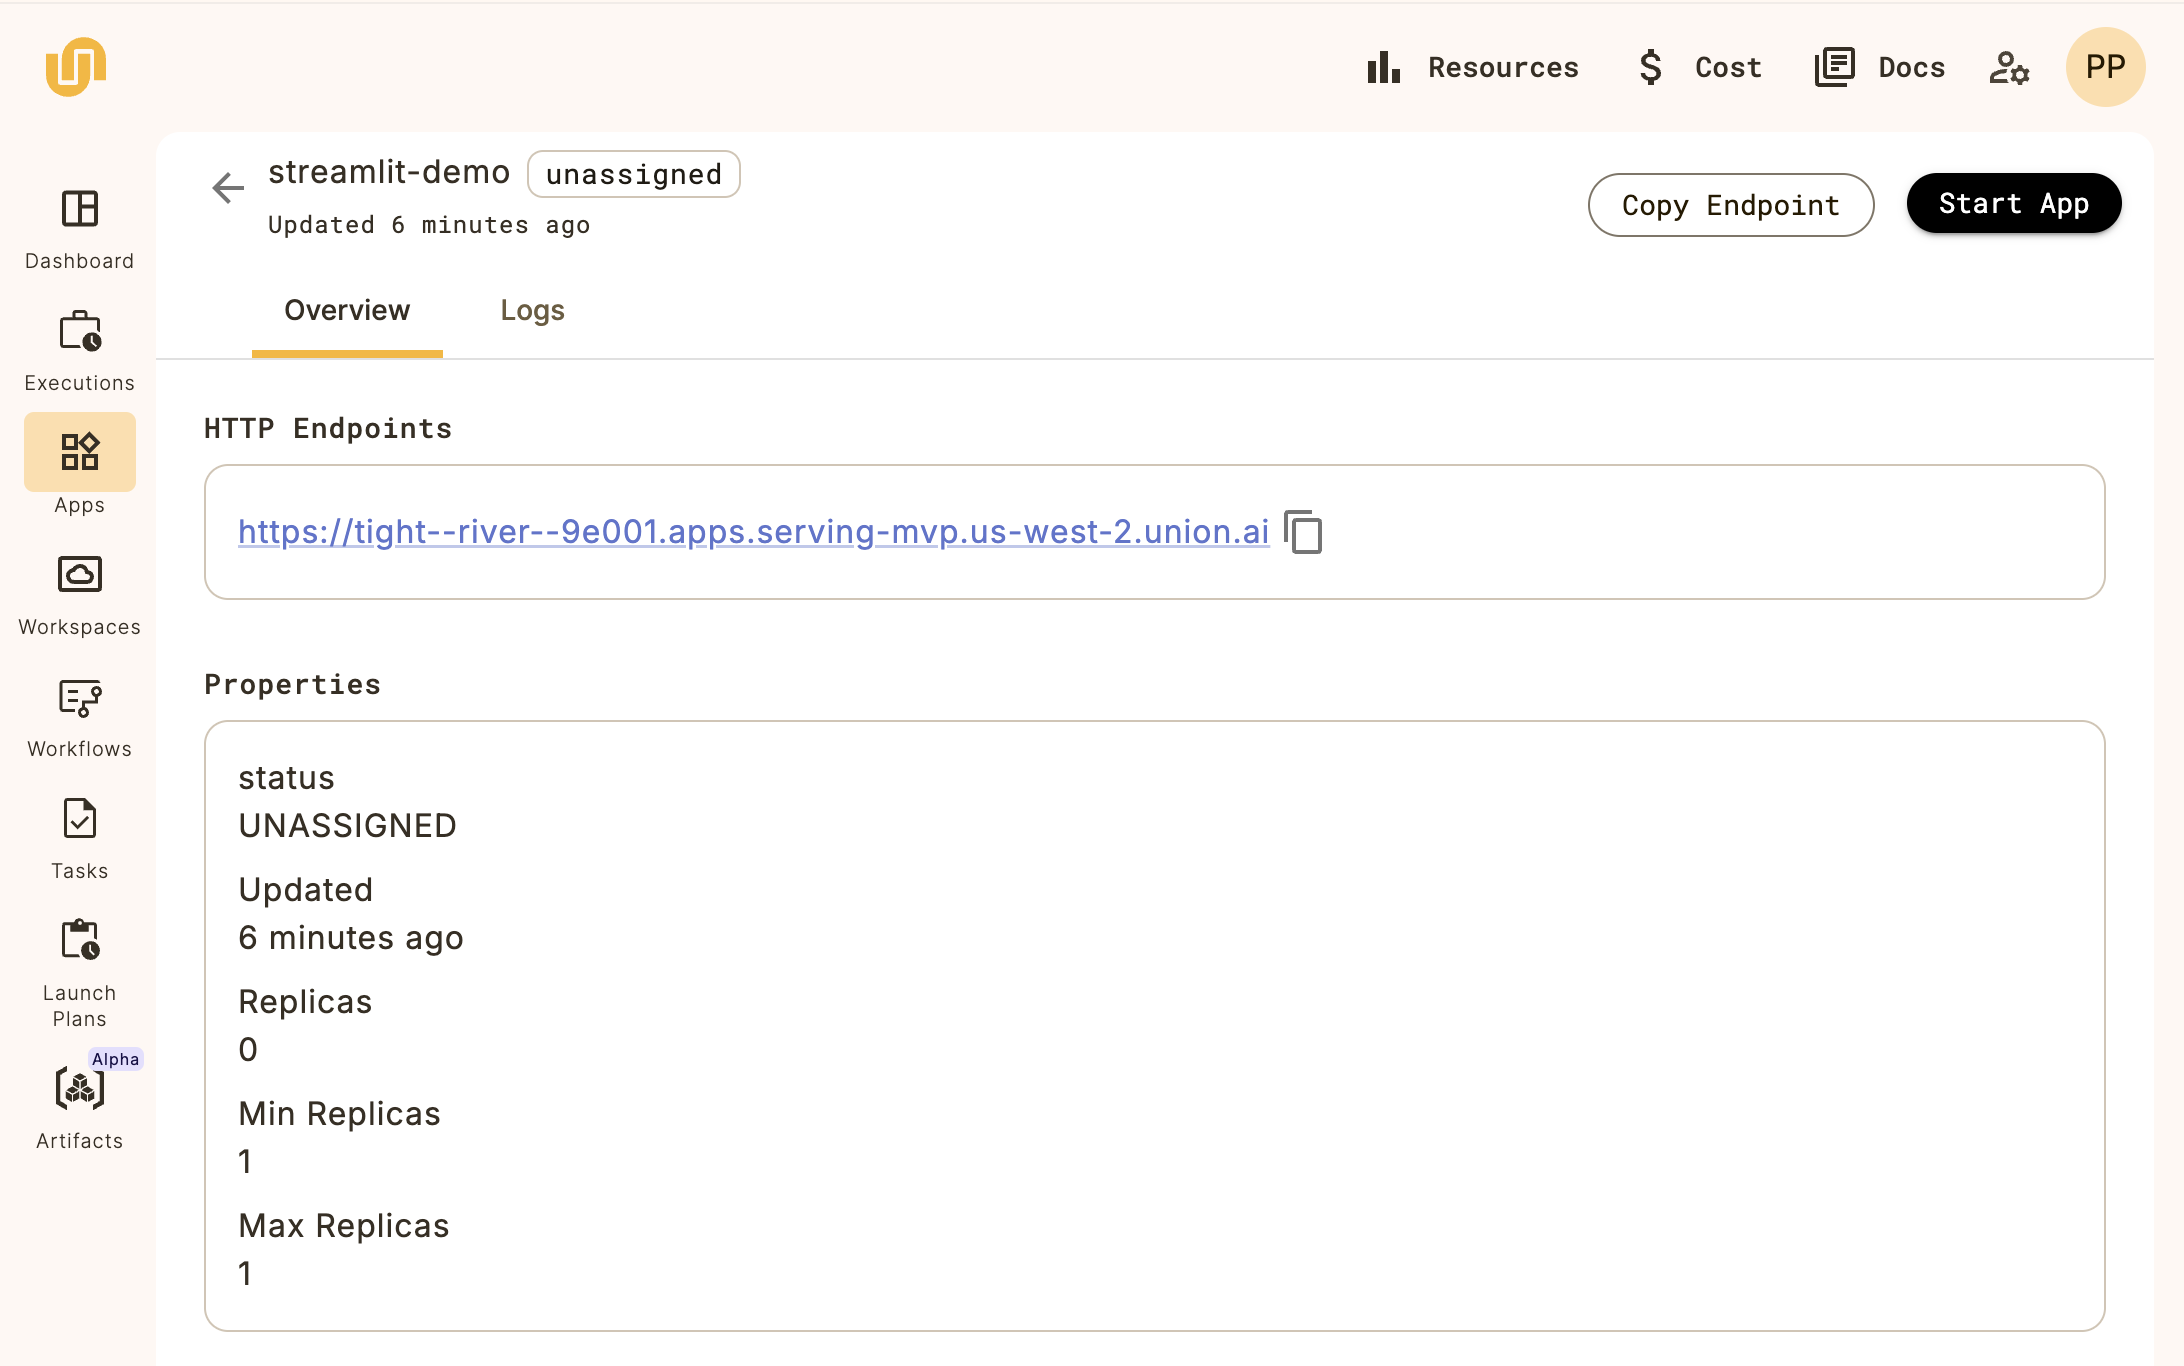
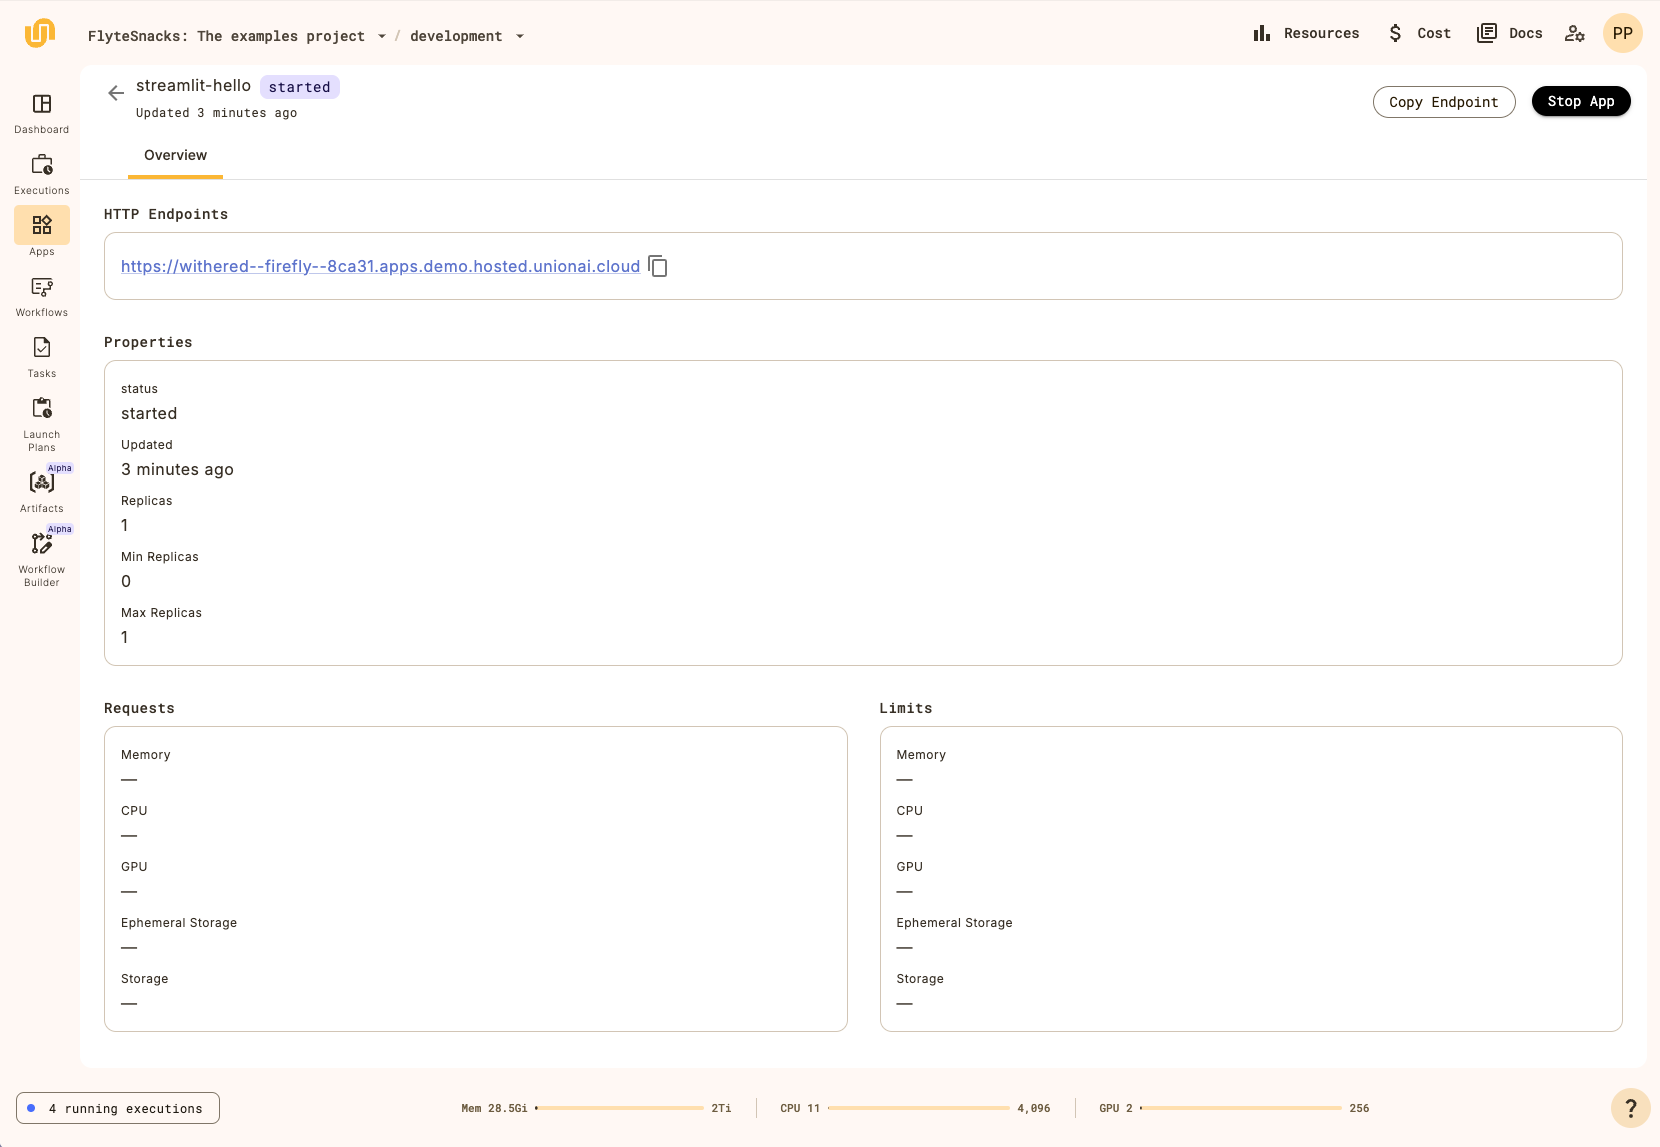
fixes as per PR review

diff --git a/source/user-guide/core-concepts/serving/serving-a-model.md b/source/user-guide/core-concepts/serving/serving-a-model.md
@@ -21,6 +21,8 @@ In a local directory, create the following files:
 ```{code-block} python
 :caption: app.py
 
+"""A Union app that uses FastAPI to serve model created by a Union workflow."""
+
 from union import Artifact, Resources
 from union.app import App, Input
 
@@ -47,6 +49,8 @@ fast_api_app = App(
 
 ```{code-block} python
 :caption: main.py
+
+"""Set up the FastAPI app."""
 
 from contextlib import asynccontextmanager
 
@@ -75,8 +79,12 @@ async def predict(x: float, y: float) -> float:
 
 ## wf.py
 
+Import the required packages:
+
 ```{code-block} python
 :caption: wf.py
+
+"""A Union workflow that trains a model and evaluates it."""
 
 from pathlib import Path
 from typing import Annotated
@@ -88,22 +96,35 @@ from sklearn.datasets import make_regression
 from sklearn.ensemble import RandomForestRegressor
 from sklearn.metrics import mean_absolute_percentage_error
 from sklearn.model_selection import train_test_split
+```
 
+Create the [`Artifact`](../artifacts/index.md):
+
+```{code-block} python
 SklearnModel = Artifact(name="sklearn-model")
+```
 
+Define the container image that will be used to run the tasks using [`ImageSpec`](../tasks/task-software-environment/imagespec.md).
+Note that you must replace `YOUR_REGISTRY` with the actual URI of your own container registry.
+
+```{code-block} python
 image_spec = ImageSpec(
     name="flytekit",
     packages=["scikit-learn==1.5.2"],
-    registry="ghcr.io/thomasjpfan",
+    registry="YOUR_REGISTRY",
 )
+```
 
+Define the tasks and workflow:
 
+```{code-block} python
 @task(
     cache=True,
     cache_version="2",
     container_image=image_spec,
 )
 def load_data() -> tuple[np.ndarray, np.ndarray, np.ndarray, np.ndarray]:
+    """Generate the example using sklearn.datasets.make_regression and split it into training and testing sets."""
     X, y = make_regression(n_samples=3)
     return train_test_split(X, y, random_state=42)
 
@@ -114,7 +135,9 @@ def load_data() -> tuple[np.ndarray, np.ndarray, np.ndarray, np.ndarray]:
     cache_version="2",
     container_image=image_spec,
 )
+
 def train_model(X_train: np.ndarray, y_train: np.ndarray) -> Annotated[FlyteFile, SklearnModel]:
+    """Train a RandomForestRegressor model and save it as a file."""
     working_dir = Path(current_context().working_directory)
     model_file = working_dir / "model.joblib"
 
@@ -130,6 +153,7 @@ def train_model(X_train: np.ndarray, y_train: np.ndarray) -> Annotated[FlyteFile
     cache_version="2",
 )
 def evaluate_model(model: FlyteFile, X_test: np.ndarray, y_test: np.ndarray) -> float:
+    """Evaluate the model using mean absolute percentage error."""
     model_ = joblib.load(model.download())
     y_pred = model_.predict(X_test)
     return float(mean_absolute_percentage_error(y_test, y_pred))
@@ -137,6 +161,7 @@ def evaluate_model(model: FlyteFile, X_test: np.ndarray, y_test: np.ndarray) -> 
 
 @workflow
 def wf() -> float:
+    """Train a model and evaluate it."""
     X_train, X_test, y_train, y_test = load_data()
     model = train_model(X_train=X_train, y_train=y_train)
     return evaluate_model(model=model, X_test=X_test, y_test=y_test)
@@ -151,9 +176,11 @@ To run this example you will need to register and run the workflow first:
 $ union run --remote wf.py wf
 ```
 
-This will create an `Artifact` called `sklearn-model`.
+The workflow first uses `sklearn.datasets.make_regression` to generate a random regression problem.
+It then trains a model against that problem, evaluates the model and saves it as a file.
+The file is defined as a Union `Artifact`, enabling it to be retrieved later by the serving app for display.
 
-Once the artifact is successfully created you can deploy the serving app:
+Once the workflow has completed, you can deploy the app:
 
 ```{code-block} bash
 $ union deploy apps app.py simple-fastapi-sklearn

diff --git a/source/user-guide/core-concepts/serving/index.md b/source/user-guide/core-concepts/serving/index.md
@@ -41,7 +41,6 @@ app = App(
     limits=Resources(cpu="2", mem="3Gi"),
 )
 ```
-{@# TODO: replace the container_image URL with a permanent public example. #@}
 
 Here the `App` constructor is initialized with the following parameters:
 
@@ -89,16 +88,12 @@ This will return output like the following:
 
 ```{code-block} bash
 ✨ Creating Application: streamlit-demo
-Created Endpoint at: https://tight--river--9e001.apps.serving-mvp.us-west-2.union.ai
+Created Endpoint at: https://withered--firefly--8ca31.apps.demo.hosted.unionai.cloud/
 ```
 
-Click on the displayed endpoint to go to the app.
+Click on the displayed endpoint to go to the app:
 
-{@# TODO: add the screenshot once it is available
-You should see something like this:
-
-![A simple app](/_static/images/user-guide/core-concepts/serving/simple-app.png)
-#@}
+![A simple app](/_static/images/user-guide/core-concepts/serving/streamlit-hello.png)
 
 ## Viewing deployed apps
 
@@ -110,14 +105,9 @@ To connect to an app click on its **Endpoint**.
 To see more information about the app, click on its **Name**.
 This will take you to the **App view**:
 
-![Apps view](/_static/images/user-guide/core-concepts/serving/app-view.png)
+![App view](/_static/images/user-guide/core-concepts/serving/app-view.png)
 
 Buttons to **Copy Endpoint** and **Start app** are available at the top of the view.
-The **Overview** tab provides the information about app's properties, configuration, and event history:
-
-The **Logs** tab provides a searchable and filterable view of the app's logs:
-
-![Apps logs](/_static/images/user-guide/core-concepts/serving/app-logs.png)
 
 You can also view all apps deployed in your Union instance from the command-line with:
 

diff --git a/source/user-guide/core-concepts/tasks/task-software-environment/imagespec.md b/source/user-guide/core-concepts/tasks/task-software-environment/imagespec.md
@@ -7,7 +7,7 @@ When you register the workflow, the container image is built locally and pushed 
 When the workflow is executed, the container image is pulled from that registry and used to run the task.
 
 :::{note}
-See the [flytekit documentation](https://docs.flyte.org/en/latest/api/flytekit/generated/flytekit.image_spec.ImageSpec.html#flytekit.image_spec.ImageSpec) for full documentation of `ImageSpec` class parameters and methods.
+See the [Flytekit documentation](https://docs.flyte.org/en/latest/api/flytekit/generated/flytekit.image_spec.ImageSpec.html#flytekit.image_spec.ImageSpec) for full documentation of `ImageSpec` class parameters and methods.
 :::
 
 To illustrate the process, we will walk through an example.
@@ -87,7 +87,7 @@ See [Setting up the project](../../../development-cycle/setting-up-a-project).
 
 ## Understand the requirements
 
-The `requirements.txt` file conatins the `union` package and the `pandas` package, both of which are needed by the task.
+The `requirements.txt` file contains the `union` package and the `pandas` package, both of which are needed by the task.
 
 ## Set up a virtual Python environment
 

diff --git a/source/user-guide/core-concepts/serving/adding-your-own-code.md b/source/user-guide/core-concepts/serving/adding-your-own-code.md
@@ -6,7 +6,7 @@ In this section we will expand on this by adding our own custom code to the app.
 
 ## Example app
 
-We will start with a simple app that consists only of the framework code that is need for an app and a small piece of custom logic.
+We will initialize the app in `app.py` as before, but now we will add two files containing our own code, `main.py` and `utils.py`.
 
 In a local directory, create the following files:
 
@@ -49,7 +49,7 @@ Compared to the first example we have added one more parameter:
 
 In this example we include two files containing custom logic: `main.py` and `utils.py`.
 
-The file `main.py` contains the actual Streamlit code:
+The file `main.py` contains the bulk of our custom code:
 
 ```{code-block} python
 :caption: main.py
@@ -65,7 +65,7 @@ if user_input:
     st.write("You entered:", process_user_input(user_input))
 ```
 
-The file `utils.py` contains a supporting function that is imported into the Streamlit file, above.
+The file `utils.py` contains a supporting function that is imported into the file above.
 
 ```{code-block} python
 :caption: utils.py

diff --git a/source/user-guide/core-concepts/serving/serving-workflow-output.md b/source/user-guide/core-concepts/serving/serving-workflow-output.md
@@ -103,8 +103,11 @@ $ union run --remote wf.py wf
 ```
 
 This will create an `Artifact` called `my_file` from the file `my_file.txt` that contains the text `Some data`.
+Obviously, this is just a toy example, but you can imagine the file containing useful data produced by your workflow that you want to display via your app.
 
-Now you can deploy your app:
+To see that the artifact was successfully created, you can go to the Artifact view in the Union UI and search for `my_file`:
+
+Deploy your app:
 
 ```{code-block} bash
 $ union deploy apps app.py streamlit-demo-wf-data
